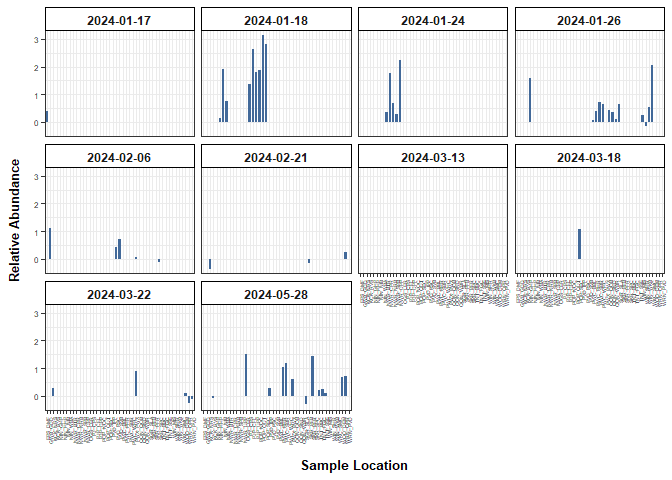
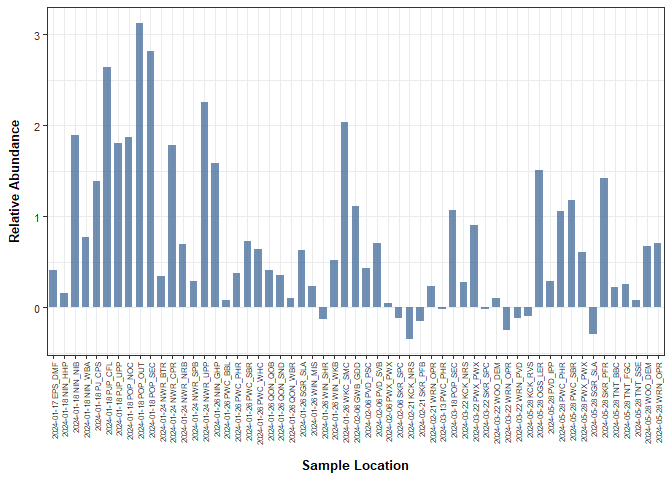
changing the bar chart at the end of script

diff --git a/docs/eDNA qPCR/qPCR-analysis.md b/docs/eDNA qPCR/qPCR-analysis.md
@@ -389,10 +389,11 @@ Bar chart
 ``` r
 fieldsamples_df %>% 
   filter(!is.na(Relative_Abundance)) %>%
-  ggplot(., aes(x=Sample_Location, y=Relative_Abundance)) + 
+  ggplot(., aes(x=Sample_ID, y=Relative_Abundance)) + 
+  #ggplot(., aes(x=Sample_Location, y=Relative_Abundance)) + 
   #geom_point(size = 2, alpha=0.75, color = 'black', fill = '#426999', shape=21) +
-  geom_bar(stat = "identity", width = 0.7, fill = '#426999') +
-  facet_wrap(~Date) +
+  geom_bar(stat = "identity", width = 0.7, fill = '#426999', alpha=0.75) +
+  #facet_wrap(~Date) +
   labs(
     y="Relative Abundance",
     x = "Sample Location"
@@ -401,17 +402,18 @@ fieldsamples_df %>%
     ## theme variables
     theme(panel.background=element_rect(fill='white', colour='black'),
         legend.position = "none",
-        axis.text.y = element_text(size=6, color="grey20"),
-        axis.text.x = element_text(size=4, color="grey20", angle=90, hjust=1, vjust=0.5),
+        axis.text.y = element_text(size=8, color="grey20"),
+        axis.text.x = element_text(size=6, color="grey20", angle=90, hjust=1, vjust=0.5),
         axis.title.y = element_text(margin = margin(t = 0, r = 10, b = 0, l = 0), size=10, face="bold"),
         axis.title.x = element_text(margin = margin(t = 10, r = 0, b = 0, l = 0), size=10, face="bold"),
         # New theme elements for strip appearance
         strip.background = element_rect(fill = "white", color = "black"),
-        strip.text = element_text(face = "bold", size = 9))
+        strip.text = element_text(face = "bold", size = 9)
+        )
 ```
 
 ![](qPCR-analysis_files/figure-gfm/unnamed-chunk-13-1.png)<!-- -->
 
 ``` r
-ggsave("example output/Fieldsample_relative_abundance.png", width = 9.5, height=5.5)
+ggsave("example output/Fieldsample_relative_abundancev2.png", width = 9.5, height=5)
 ```
